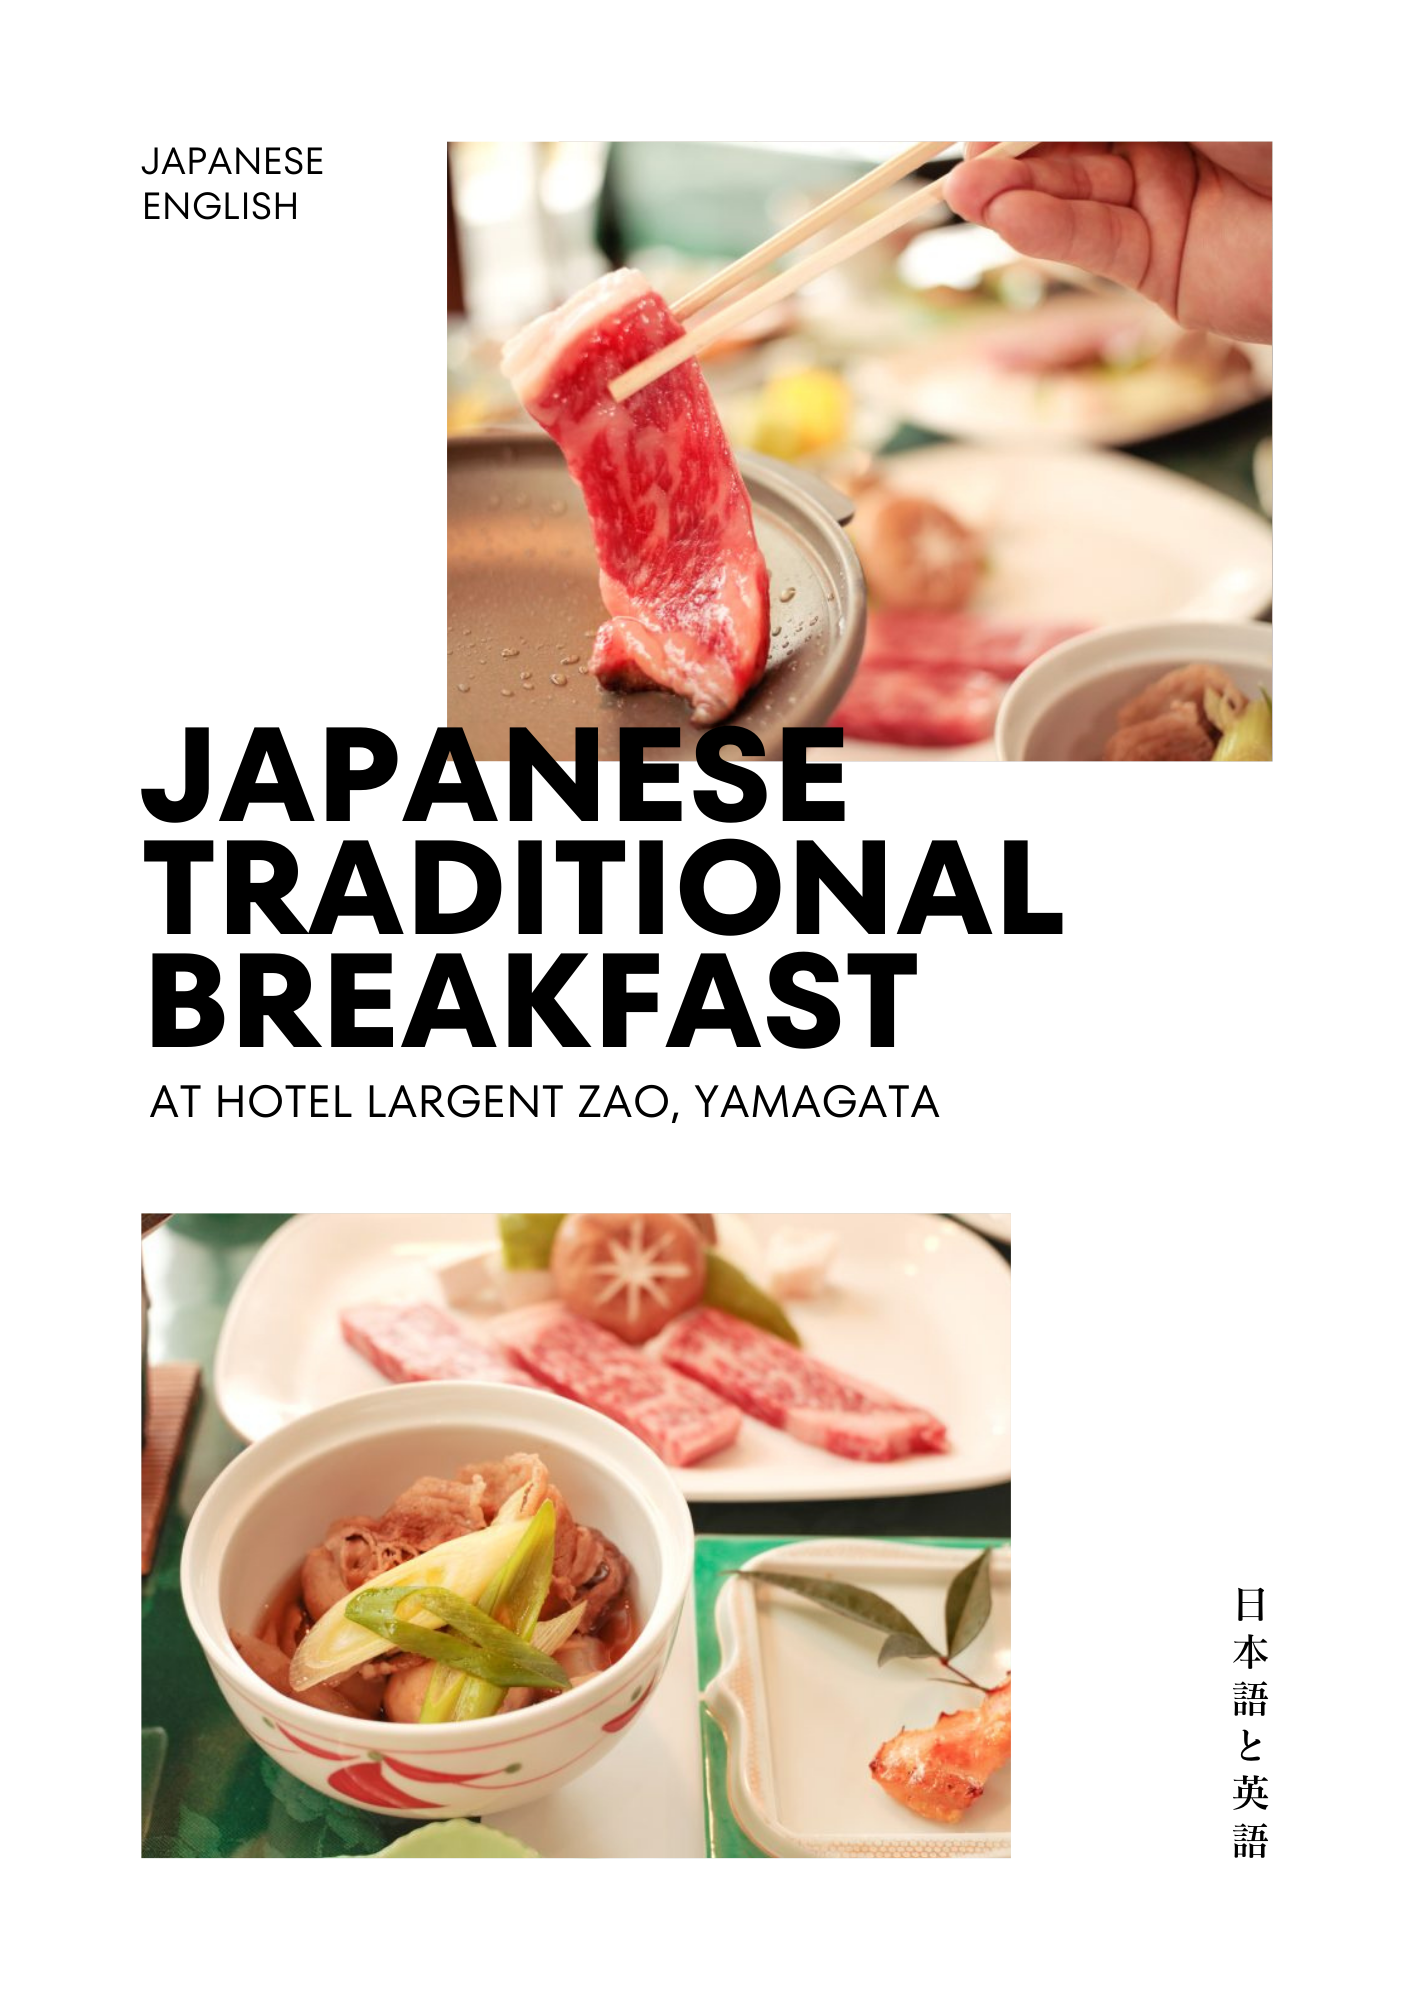
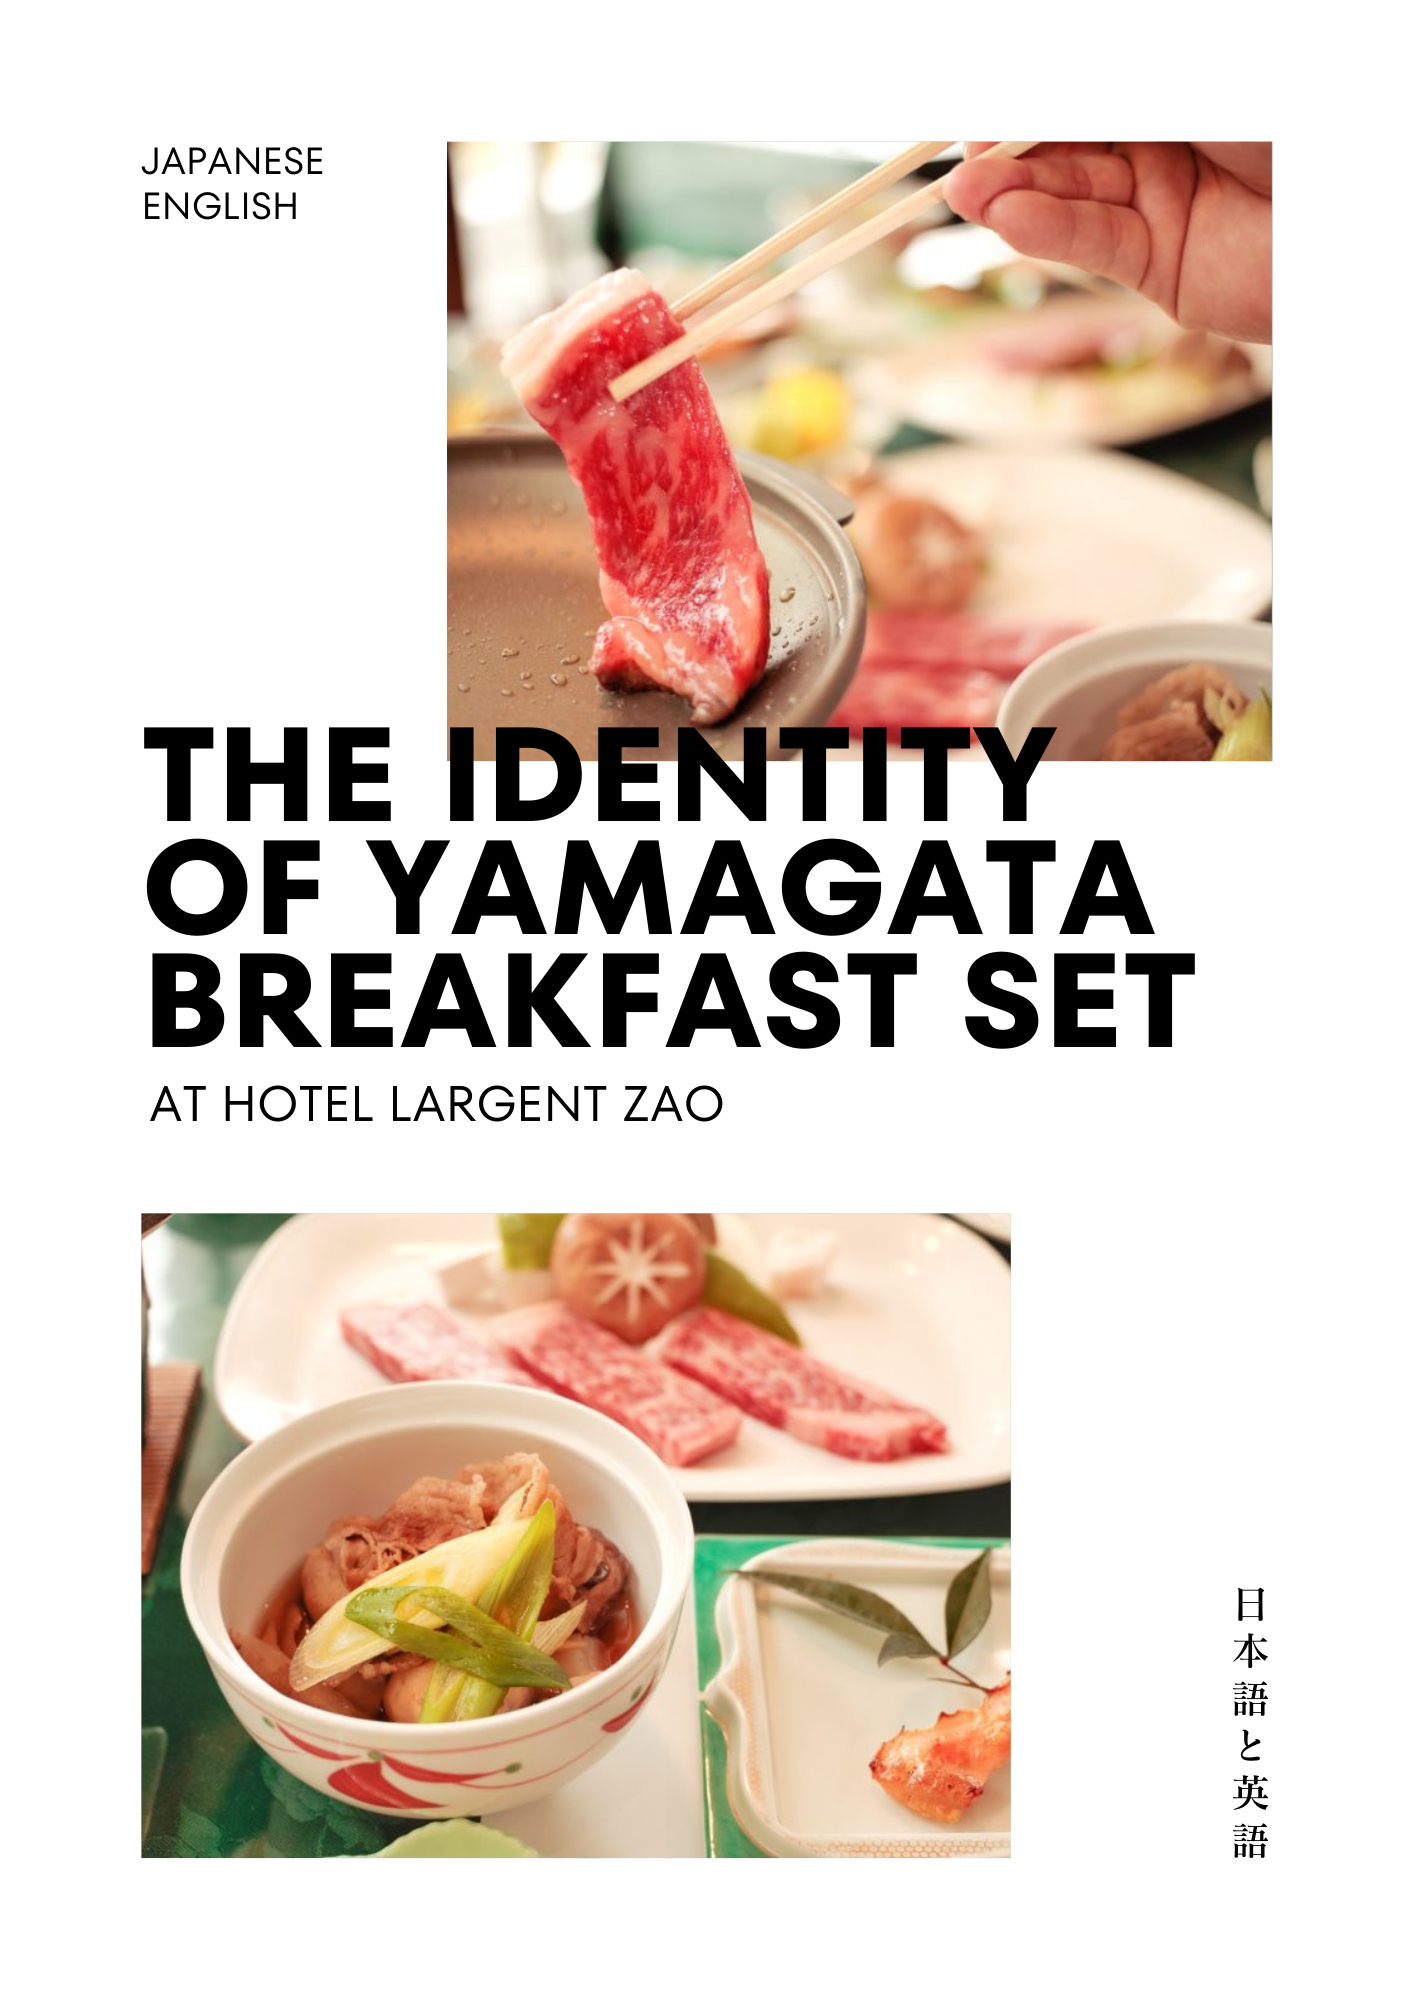
update

Changed region(s): [[0.0934, 0.341, 0.8402, 0.527], [0.0934, 0.527, 0.6535, 0.558], [0.8713, 0.806, 0.9024, 0.837]]

diff --git a/script.js b/script.js
@@ -1,4 +1,39 @@
-const images = Array.from({ length: 12 }, (_, index) => `img/${index + 1}.png`);
+const imageFiles = [
+  "1.png",
+  "2สารบัญ.png",
+  "3แนะนำโรงแรม.png",
+  "4แนะนำโรงแรม.png",
+  "5แนะนำโรงแรม.png",
+  "6อาหารโรงแรม.png",
+  "7อาหารโรงแรม.png",
+  "8อาหารโรงแรม.png",
+  "9อาหารโรงแรม.png",
+  "10อาหารโรงแรม.png",
+  "11อาหารโรงแรม.png",
+  "12แนะนำสำรับอาหา.png",
+  "13แนะนำสำรับอาหา.png",
+  "14แนะนำสำรับอาหา.png",
+  "15แนะนำสำรับอาหา.png",
+  "16ของท้องถิ่น.png",
+  "17ของท้องถิ่น.png",
+  "18ของท้องถิ่น.png",
+  "19ของท้องถิ่น.png",
+  "20ของท้องถิ่น.png",
+  "21ของท้องถิ่น.png",
+  "22ของท้องถิ่น.png",
+  "23ของท้องถิ่น.png",
+  "24อาหารโรงแรม.png",
+];
+
+function getLeadingNumber(fileName) {
+  const match = fileName.match(/^(\d+)/);
+  return match ? Number.parseInt(match[1], 10) : Number.POSITIVE_INFINITY;
+}
+
+const images = imageFiles
+  .slice()
+  .sort((a, b) => getLeadingNumber(a) - getLeadingNumber(b) || a.localeCompare(b, "th"))
+  .map((fileName) => `img/${fileName}`);
 
 const bookPages = document.getElementById("bookPages");
 const leftPage = document.getElementById("leftPage");
@@ -55,7 +90,7 @@ function updatePage() {
     setImage(leftImage, currentPage);
     rightPage.classList.add("is-empty");
     bookPages.classList.add("single-mode");
-    pageIndicator.textContent = `หน้า ${currentPage} / ${images.length}`;
+    pageIndicator.textContent = `pages ${currentPage} / ${images.length}`;
   } else {
     const leftPageNumber = currentIndex + 1;
     const rightPageNumber = leftPageNumber + 1;
@@ -63,7 +98,7 @@ function updatePage() {
     setImage(rightImage, rightPageNumber);
     rightPage.classList.remove("is-empty");
     bookPages.classList.remove("single-mode");
-    pageIndicator.textContent = `หน้า ${leftPageNumber}-${rightPageNumber} / ${images.length}`;
+    pageIndicator.textContent = `pages ${leftPageNumber}-${rightPageNumber} / ${images.length}`;
   }
 
   updateControls();

diff --git a/index.html b/index.html
@@ -14,8 +14,8 @@
     <section class="book-shell" aria-label="หนังสือแนะนำภาพ">
       <header class="book-header">
         <p class="jp">案内書 / Guide Book</p>
-        <h1>Hanatsu Photo Book</h1>
-        <p class="subtitle">รวมภาพแนะนำ เรียงลำดับตามหน้า</p>
+        <h1>The Identity of Yamagata Breakfast set in Hotel Largent Zao</h1>
+        <p class="subtitle">อัตลักษณ์สำรับอาหารเช้าแบบ Hotel Largent Zao ณ ยามากาตะ</p>
       </header>
 
       <section class="book-pages" id="bookPages" aria-live="polite">
@@ -33,11 +33,11 @@
       <footer class="book-controls">
         <button id="prevBtn" class="nav-btn" type="button" aria-label="หน้าก่อน">
           <span class="nav-icon" aria-hidden="true">←</span>
-          <span class="nav-label">หน้าก่อน</span>
+          <span class="nav-label">previous</span>
         </button>
-        <p id="pageIndicator" class="page-indicator">หน้า 1 / 12</p>
+        <p id="pageIndicator" class="page-indicator">page 1 / 12</p>
         <button id="nextBtn" class="nav-btn" type="button" aria-label="หน้าถัดไป">
-          <span class="nav-label">หน้าถัดไป</span>
+          <span class="nav-label">next</span>
           <span class="nav-icon" aria-hidden="true">→</span>
         </button>
       </footer>
